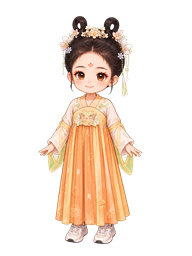
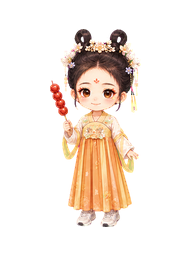
fix: polish pet rendering and animate candied haw

Changed region(s): [[0.1875, 0.0625, 0.75, 0.9688]]

diff --git a/src/pet/AtlasPet.vue b/src/pet/AtlasPet.vue
@@ -1,5 +1,5 @@
 <script setup lang="ts">
-import { onBeforeUnmount, onMounted, ref, watch } from 'vue'
+import { computed, nextTick, onBeforeUnmount, onMounted, ref, watch } from 'vue'
 
 import type { PetAction } from '../shared/types'
 import { CELL_HEIGHT, CELL_WIDTH, frameAt, lookIndexToFrame } from './atlas'
@@ -18,10 +18,19 @@ const emit = defineEmits<{
 
 const canvas = ref<HTMLCanvasElement>()
 const image = new Image()
+const displayWidth = ref(CELL_WIDTH)
+const displayHeight = ref(CELL_HEIGHT)
+const backingWidth = ref(CELL_WIDTH)
+const backingHeight = ref(CELL_HEIGHT)
+const canvasStyle = computed(() => ({
+  width: `${displayWidth.value}px`,
+  height: `${displayHeight.value}px`,
+}))
 let animationFrame = 0
 let startedAt = performance.now()
 let completionSent = false
 let loaded = false
+let resizeObserver: ResizeObserver | undefined
 
 function resetAnimation() {
   startedAt = performance.now()
@@ -35,6 +44,9 @@ function draw(timestamp: number) {
       ? lookIndexToFrame(props.lookIndex)
       : frameAt(props.action === 'look' ? 'idle' : props.action, timestamp - startedAt)
 
+    const scaleX = backingWidth.value / CELL_WIDTH
+    const scaleY = backingHeight.value / CELL_HEIGHT
+    context.setTransform(scaleX, 0, 0, scaleY, 0, 0)
     context.clearRect(0, 0, CELL_WIDTH, CELL_HEIGHT)
     context.imageSmoothingEnabled = true
     context.imageSmoothingQuality = 'high'
@@ -58,6 +70,24 @@ function draw(timestamp: number) {
   animationFrame = requestAnimationFrame(draw)
 }
 
+function resizeCanvas() {
+  const container = canvas.value?.parentElement
+  if (!container) return
+
+  const bounds = container.getBoundingClientRect()
+  if (bounds.width <= 0 || bounds.height <= 0) return
+
+  const aspectRatio = CELL_WIDTH / CELL_HEIGHT
+  const height = Math.min(bounds.height, bounds.width / aspectRatio)
+  const width = height * aspectRatio
+  const dpr = Math.max(1, window.devicePixelRatio || 1)
+
+  displayWidth.value = width
+  displayHeight.value = height
+  backingWidth.value = Math.max(1, Math.round(width * dpr))
+  backingHeight.value = Math.max(1, Math.round(height * dpr))
+}
+
 function loadSource() {
   loaded = false
   if (!props.source) return
@@ -74,12 +104,27 @@ watch(() => [props.action, props.actionToken, props.lookIndex], resetAnimation)
 
 onMounted(() => {
   loadSource()
+  void nextTick(resizeCanvas)
+  if (canvas.value?.parentElement) {
+    resizeObserver = new ResizeObserver(resizeCanvas)
+    resizeObserver.observe(canvas.value.parentElement)
+  }
   animationFrame = requestAnimationFrame(draw)
 })
 
-onBeforeUnmount(() => cancelAnimationFrame(animationFrame))
+onBeforeUnmount(() => {
+  resizeObserver?.disconnect()
+  cancelAnimationFrame(animationFrame)
+})
 </script>
 
 <template>
-  <canvas ref="canvas" class="atlas-pet" :width="CELL_WIDTH" :height="CELL_HEIGHT" aria-hidden="true" />
+  <canvas
+    ref="canvas"
+    class="atlas-pet"
+    :width="backingWidth"
+    :height="backingHeight"
+    :style="canvasStyle"
+    aria-hidden="true"
+  />
 </template>

diff --git a/src/settings/SettingsPage.vue b/src/settings/SettingsPage.vue
@@ -18,10 +18,10 @@ const props = withDefaults(defineProps<{
   characters: () => [
     { id: 'qpet-z1-sunny-brim', name: '晴檐', builtIn: true, active: true, description: '戴草帽的温柔桌面伙伴', modelType: '动态' },
     { id: 'qpet-z2-violet-whisper', name: '堇语', builtIn: true, description: '藏着一枝小花的安静伙伴', modelType: '动态' },
-    { id: 'qpet-gu-candied-haw', name: '糖葫芦', builtIn: true, description: '橙金汉服风格的桌面伙伴', modelType: '静态' },
+    { id: 'qpet-gu-candied-haw', name: '糖葫芦', builtIn: true, description: '手持糖葫芦的橙金汉服桌面伙伴', modelType: '动态' },
   ],
-  interactionSettings: () => ({ alwaysOnTop: true, clickThrough: false, followCursor: true, showBubble: true, startWithWindows: false, volume: 0.55, scale: 1, idleIntervalSeconds: 30 }),
-  about: () => ({ appName: 'Qpets', version: '0.1.0', description: '让每一次打开电脑，都有一位小伙伴在身边。' }),
+  interactionSettings: () => ({ alwaysOnTop: true, clickThrough: false, followCursor: true, showBubble: true, startWithWindows: false, scale: 1, idleIntervalSeconds: 30 }),
+  about: () => ({ appName: 'Qpets', version: '0.1.1', description: '让每一次打开电脑，都有一位小伙伴在身边。' }),
   initialSection: 'library',
 })
 

diff --git a/src/components/settings/PetInteractionPanel.vue b/src/components/settings/PetInteractionPanel.vue
@@ -45,9 +45,6 @@ function change<K extends keyof PetInteractionSettings>(settings: PetInteraction
     <SettingsRow title="显示对话气泡" description="点击桌宠时显示简短的互动反馈。">
       <input class="settings-switch" type="checkbox" :checked="settings.showBubble" @change="change(settings, 'showBubble', ($event.target as HTMLInputElement).checked)" />
     </SettingsRow>
-    <SettingsRow title="声音音量" :description="`${Math.round(settings.volume * 100)}%`">
-      <input class="settings-range" type="range" min="0" max="1" step="0.05" :value="settings.volume" @input="change(settings, 'volume', Number(($event.target as HTMLInputElement).value))" />
-    </SettingsRow>
     <SettingsRow title="桌宠大小" :description="`${Math.round(settings.scale * 100)}%`">
       <input class="settings-range" type="range" min="0.6" max="1.6" step="0.05" :value="settings.scale" @input="change(settings, 'scale', Number(($event.target as HTMLInputElement).value))" />
     </SettingsRow>

diff --git a/src/settings/SettingsRoot.vue b/src/settings/SettingsRoot.vue
@@ -22,8 +22,10 @@ function selectCharacter(character: PetCharacter) {
   void runtime.selectPet(character.id)
 }
 
-function updateInteractionSettings(settings: AppSettings) {
-  void runtime.updateSettings(settings)
+function updateInteractionSettings(settings: Omit<AppSettings, 'volume'>) {
+  // `volume` remains in the backend transport schema for persisted-state
+  // compatibility, but Qpets currently has no audio output to control.
+  void runtime.updateSettings({ ...runtime.state.settings, ...settings })
 }
 
 onMounted(() => void runtime.initialize())
@@ -41,7 +43,7 @@ onBeforeUnmount(() => runtime.dispose())
       :interaction-settings="runtime.state.settings"
       :about="{
         appName: 'Qpets',
-        version: '0.1.0',
+        version: '0.1.1',
         description: '晴檐、堇语与糖葫芦陪伴你的轻量桌面宠物。',
         homepage: 'https://github.com/gsx369/Qpets',
       }"

diff --git a/src/pet/PetWindow.vue b/src/pet/PetWindow.vue
@@ -213,6 +213,16 @@ onBeforeUnmount(() => {
       </template>
     </div>
 
-    <button v-if="runtime.error.value" type="button" class="pet-error" title="打开设置查看" @click.stop="runtime.openSettings">!</button>
+    <button
+      v-if="assetLoadFailed"
+      type="button"
+      class="pet-error"
+      title="角色资源无法加载，打开设置查看"
+      @pointerdown.stop
+      @pointerup.stop
+      @click.stop="runtime.openSettings"
+    >
+      !
+    </button>
   </main>
 </template>

diff --git a/src/styles/pet.css b/src/styles/pet.css
@@ -14,7 +14,7 @@
 
 .pet-stage {
   position: absolute;
-  inset: 48px 0 0;
+  inset: 18.75% 0 0;
   display: flex;
   align-items: flex-end;
   justify-content: center;
@@ -28,10 +28,6 @@
 
 .atlas-pet {
   display: block;
-  width: auto;
-  height: min(100%, 208px);
-  max-width: 100%;
-  object-fit: contain;
   pointer-events: none;
 }
 

diff --git a/src/shared/mock-state.ts b/src/shared/mock-state.ts
@@ -31,7 +31,7 @@ export const MOCK_STATE: AppState = {
       id: 'qpet-gu-candied-haw',
       displayName: '糖葫芦',
       description: '带着糖葫芦的橙金汉服伙伴。',
-      renderType: 'static-image-v1',
+      renderType: 'sprite-atlas-v2',
       source: 'builtin',
       deletable: false,
       assetPath: '',

diff --git a/src/shared/types.ts b/src/shared/types.ts
@@ -18,6 +18,7 @@ export interface AppSettings {
   followCursor: boolean
   showBubble: boolean
   startWithWindows: boolean
+  /** Retained for persisted/backend schema compatibility; no frontend control exists until audio playback is added. */
   volume: number
   scale: number
   idleIntervalSeconds: number

diff --git a/src/settings/types.ts b/src/settings/types.ts
@@ -17,7 +17,6 @@ export interface PetInteractionSettings {
   followCursor: boolean
   showBubble: boolean
   startWithWindows: boolean
-  volume: number
   scale: number
   idleIntervalSeconds: number
 }

diff --git a/src-tauri/src/lib.rs b/src-tauri/src/lib.rs
@@ -852,8 +852,23 @@ fn apply_autostart(app: &AppHandle, enabled: bool) -> CommandResult<()> {
     if enabled {
         manager.enable().map_err(error_text)
     } else {
-        manager.disable().map_err(error_text)
+        match manager.disable() {
+            Ok(()) => Ok(()),
+            // Windows reports ERROR_FILE_NOT_FOUND when either the Run key or
+            // this app's value was already removed. Disabling is idempotent,
+            // so only that exact OS condition is safe to normalize.
+            Err(error) if is_missing_autostart_entry(&error) => Ok(()),
+            Err(error) => Err(error_text(error)),
+        }
     }
+}
+
+fn is_missing_autostart_entry(error: &impl std::fmt::Display) -> bool {
+    error.to_string().contains("(os error 2)")
+}
+
+fn autostart_changed(previous: &Settings, next: &Settings) -> bool {
+    previous.start_with_windows != next.start_with_windows
 }
 
 #[tauri::command]
@@ -870,17 +885,31 @@ fn update_settings(
     settings.validate()?;
     let mut store = store.lock().map_err(error_text)?;
     let previous = store.persisted.settings.clone();
+    let should_sync_autostart = autostart_changed(&previous, &settings);
 
-    apply_autostart(&app, settings.start_with_windows)?;
+    // Other preference edits must not touch the Windows Run key. Besides
+    // needless registry I/O this used to make an ordinary setting save fail
+    // when the disabled autostart value had already been removed externally.
+    if should_sync_autostart {
+        apply_autostart(&app, settings.start_with_windows)?;
+    }
     if let Err(error) = apply_window_settings(&app, &settings) {
-        let _ = apply_autostart(&app, previous.start_with_windows);
+        // `apply_window_settings` performs several native calls. If a later
+        // call fails, replay the previous values so the live window does not
+        // drift away from the persisted state.
+        let _ = apply_window_settings(&app, &previous);
+        if should_sync_autostart {
+            let _ = apply_autostart(&app, previous.start_with_windows);
+        }
         return Err(error);
     }
 
     store.persisted.settings = settings;
     if let Err(error) = store.save() {
         store.persisted.settings = previous.clone();
-        let _ = apply_autostart(&app, previous.start_with_windows);
+        if should_sync_autostart {
+            let _ = apply_autostart(&app, previous.start_with_windows);
+        }
         let _ = apply_window_settings(&app, &previous);
         return Err(error);
     }
@@ -1187,10 +1216,14 @@ pub fn run() {
             let store = Store::open(root, resource_pets).map_err(io::Error::other)?;
             apply_window_settings(app.handle(), &store.persisted.settings)
                 .map_err(io::Error::other)?;
-            if let Err(error) =
-                apply_autostart(app.handle(), store.persisted.settings.start_with_windows)
-            {
-                eprintln!("failed to synchronize autostart: {error}");
+            // A persisted `false` needs no startup cleanup: user-driven
+            // true -> false transitions are already handled idempotently by
+            // `apply_autostart`, and skipping it avoids a Windows missing
+            // Run-key error during normal launches.
+            if store.persisted.settings.start_with_windows {
+                if let Err(error) = apply_autostart(app.handle(), true) {
+                    eprintln!("failed to synchronize autostart: {error}");
+                }
             }
             app.manage(Mutex::new(store));
 
@@ -1265,5 +1298,35 @@ mod tests {
             ..Settings::default()
         };
         assert!(settings.validate().is_err());
+    }
+
+    #[test]
+    fn autostart_only_syncs_when_its_setting_changes() {
+        let previous = Settings::default();
+        let unrelated_change = Settings {
+            volume: 0.25,
+            ..previous.clone()
+        };
+        let enabled = Settings {
+            start_with_windows: true,
+            ..previous.clone()
+        };
+
+        assert!(!autostart_changed(&previous, &unrelated_change));
+        assert!(autostart_changed(&previous, &enabled));
+        assert!(autostart_changed(&enabled, &previous));
+    }
+
+    #[test]
+    fn missing_autostart_entry_is_idempotent() {
+        assert!(is_missing_autostart_entry(
+            &"The system cannot find the file specified. (os error 2)"
+        ));
+        assert!(!is_missing_autostart_entry(
+            &"Access is denied. (os error 5)"
+        ));
+        assert!(!is_missing_autostart_entry(
+            &"The system cannot find the device specified. (os error 20)"
+        ));
     }
 }

diff --git a/docs/product-spec.md b/docs/product-spec.md
@@ -1,4 +1,4 @@
-# Qpets 0.1.0 产品规格
+# Qpets 0.1.1 产品规格
 
 ## 产品边界
 
@@ -10,7 +10,7 @@ Qpets 是单机、Windows 优先的桌面宠物。首版不包含账号、云同
 | --- | --- | --- | --- | --- |
 | `qpet-z1-sunny-brim` | 晴檐 | `sprite-atlas-v2` | 内置、默认 | 否 |
 | `qpet-z2-violet-whisper` | 堇语 | `sprite-atlas-v2` | 内置 | 否 |
-| `qpet-gu-candied-haw` | 糖葫芦 | `static-image-v1` | 内置 | 否 |
+| `qpet-gu-candied-haw` | 糖葫芦 | `sprite-atlas-v2` | 内置 | 否 |
 | `user.*` | 用户角色 | 任一受支持渲染器 | 用户导入 | 是 |
 
 ## 互动
